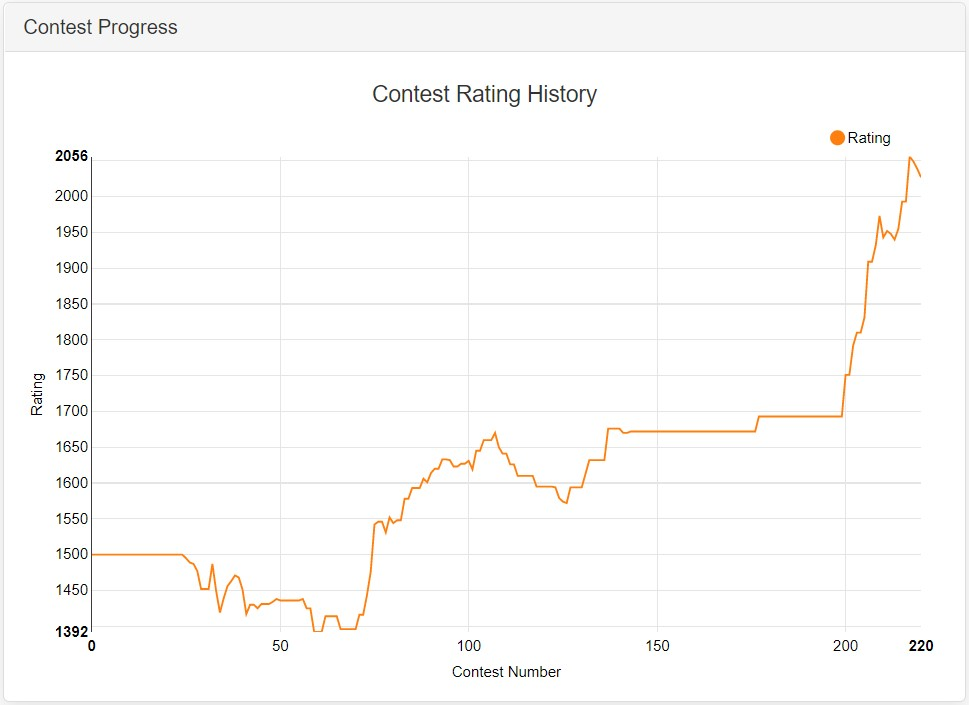
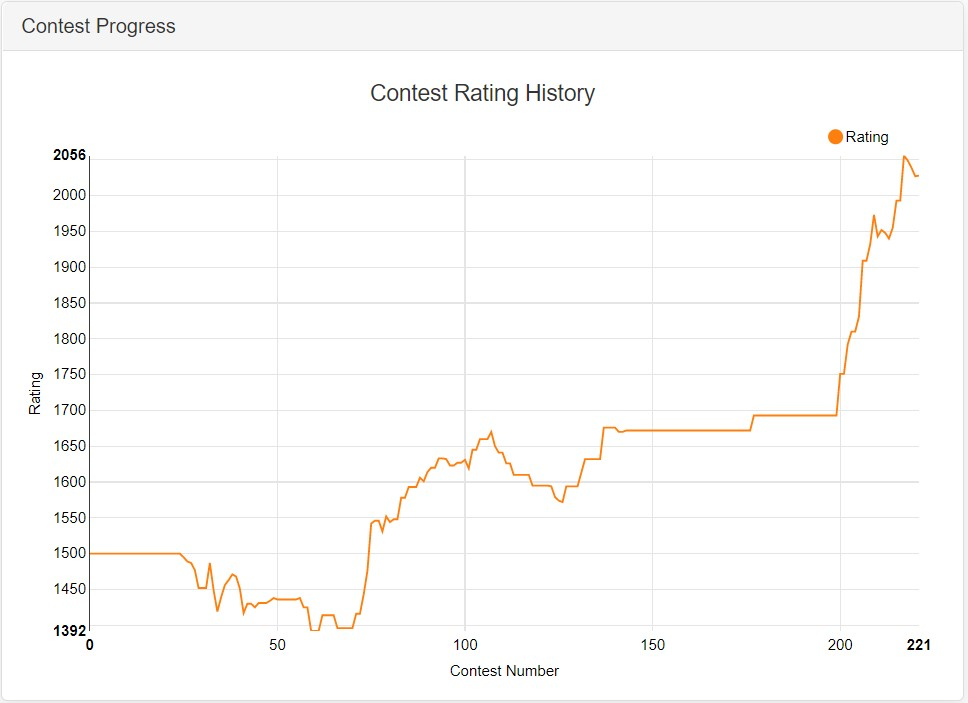
cp update

diff --git a/_includes/cp_info.html b/_includes/cp_info.html
@@ -1,10 +1,10 @@
 <h3 id="leetcode-contest-ranking">Leetcode Contest Ranking</h3>
 
-<p><code class="language-plaintext highlighter-rouge">86</code> Finished Contests</p>
+<p><code class="language-plaintext highlighter-rouge">87</code> Finished Contests</p>
 
-<p><code class="language-plaintext highlighter-rouge">2027</code> Rating</p>
+<p><code class="language-plaintext highlighter-rouge">2028</code> Rating</p>
 
-<p><code class="language-plaintext highlighter-rouge">1736 / 102900</code> Global Ranking</p>
+<p><code class="language-plaintext highlighter-rouge">1748 / 102900</code> Global Ranking</p>
 
 <p><a href="https://leetcode.com/jonathantsang/">Profile</a></p>
 

diff --git a/cp/cp.md b/cp/cp.md
@@ -101,7 +101,7 @@ Started taking competitive programming seriously around March 2020.
 
 ### Codeforces Contests
 
-Contest rating: `1437`
+Contest rating: `1414`
 
 Rank: `Specialist`
 
@@ -109,6 +109,7 @@ Rank: `Specialist`
 
 [Profile](https://codeforces.com/contests/with/recklessinkblot)
 
+- Educational Codeforces Round 89 Div 2, Rank `3102`, Solved `3`
 - Codeforces Round \#648 Div 2, Rank `9782`, Solved `1`
 - Codeforces Round \#647 Div 2, Rank `5251`, Solved `3`
 - Codeforces Round \#646 Div 2, Rank `4482`, Solved `2`
@@ -117,7 +118,7 @@ Rank: `Specialist`
 - Codeforces Round \#640 Div 4, Rank `2631`, Solved `4`
 - Codeforces Round \#639 Div 2, Rank `4418`, Solved `2` (Unranked due to server issues)
 - Codeforces Round \#638 Div 2, Rank `5501`, Solved `2`
-- Education Codeforces Round 86 Div 2, Rank `10178`, Solved `1`
+- Educational Codeforces Round 86 Div 2, Rank `10178`, Solved `1`
 - Codeforces Round \#637 Div 2, Rank `8925`, Solved `1`
 - Codeforces Round \#636 Div 3, Rank `3903`, Solved `3`
 - Codeforces Round \#635 Div 2, Rank `4953`, Solved `2`
